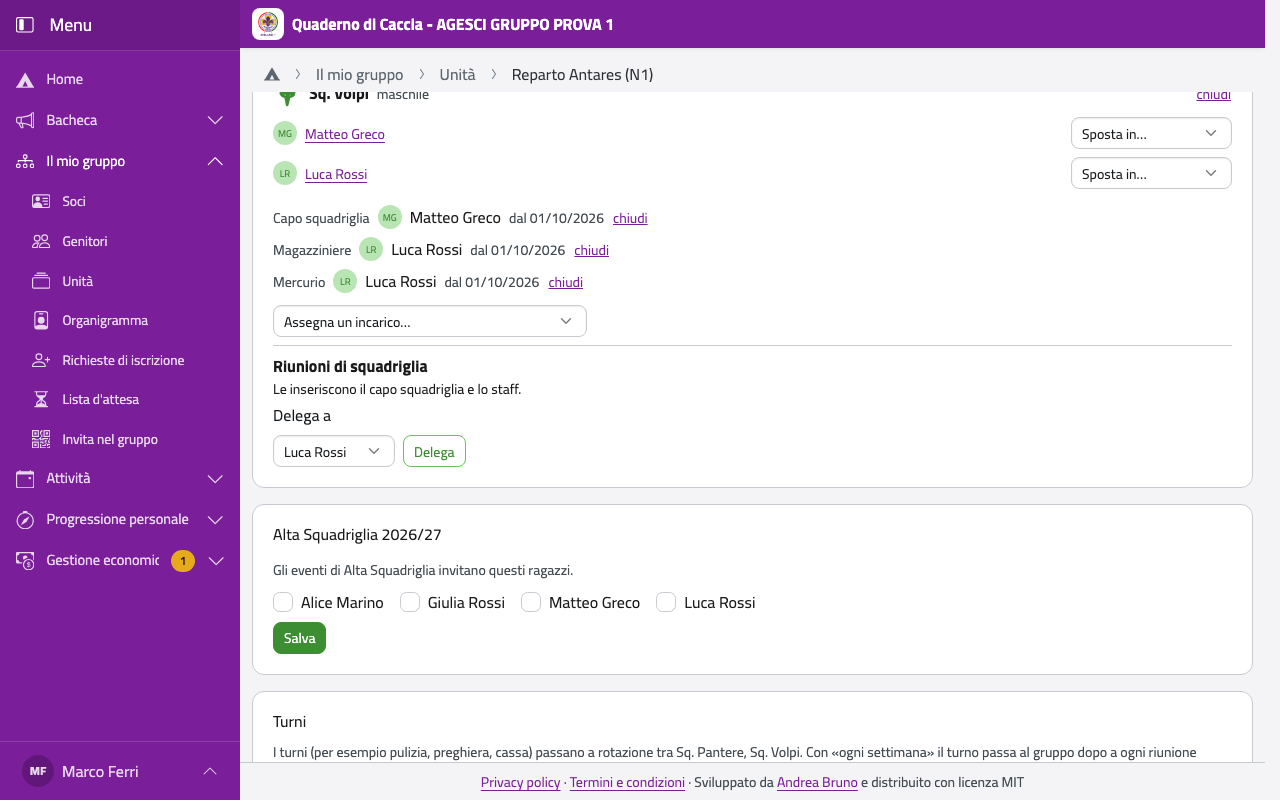
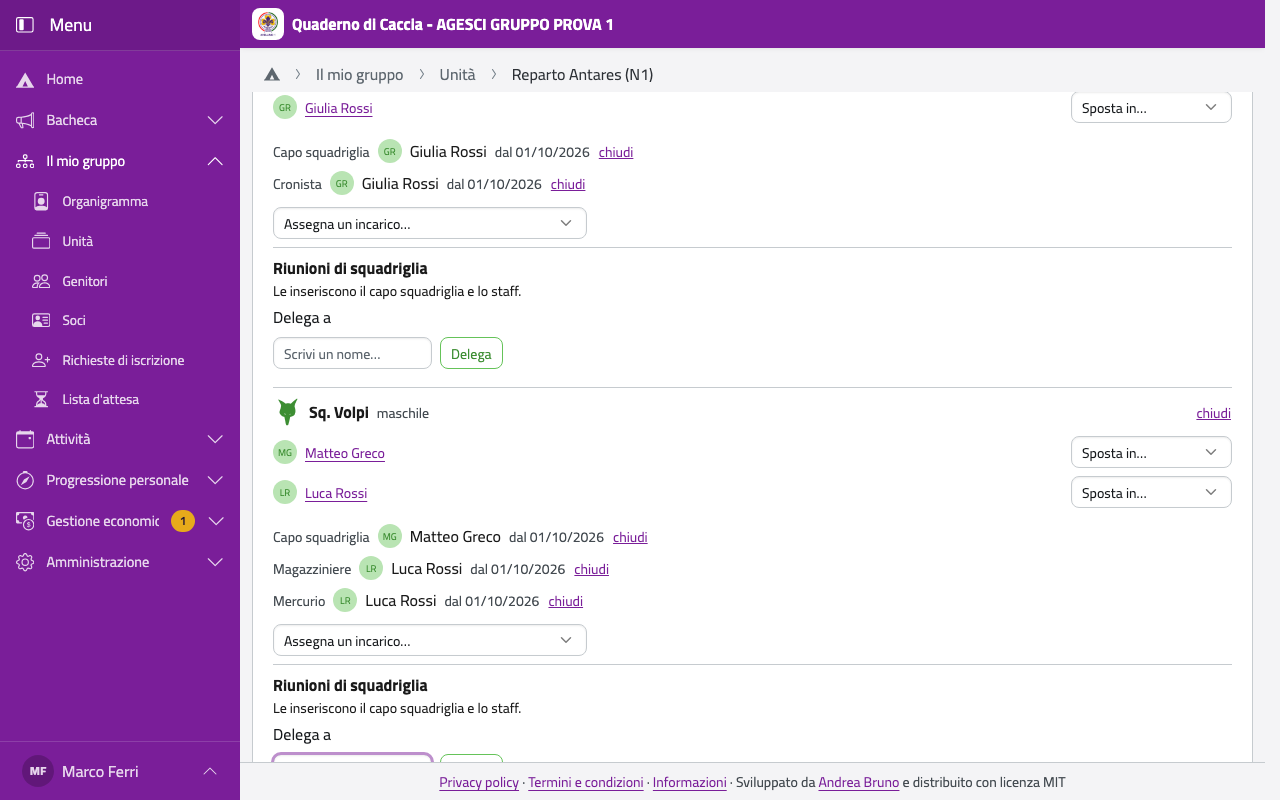
Version 1.25.0
Claude-Session: https://claude.ai/code/session_01FnZgpbkydComDqid7zBVs7

diff --git a/CHANGELOG.md b/CHANGELOG.md
@@ -5,6 +5,28 @@ versione installata e quella nuova prima di chiedere se aggiornare. Il dettaglio
 versione, con il manuale in PDF, è nella pagina
 [Releases](https://github.com/AGESCI-Avellino-1/quaderno-di-caccia/releases).
 
+## 1.25.0 — 7 novembre 2026
+
+### Novità
+
+**Scegliere una persona scrivendo il nome** ([#58](https://github.com/AGESCI-Avellino-1/quaderno-di-caccia/issues/58)): ovunque si sceglie una persona (incarichi, iscrizioni su BuonaCaccia, coniugi nelle quote, richieste privacy, verbali e convocazioni, imprese, deleghe di squadriglia, consenso dei genitori) al posto del menu a tendina c'è un campo: scrivi parte del nome o del cognome, in qualsiasi ordine e senza badare agli accenti, e l'elenco si restringe. Accanto a ogni nome c'è l'unità, «Co.Ca.» per i capi, così due persone con lo stesso nome non si confondono. Si accetta solo una persona dell'elenco, anche da tastiera, con le frecce e Invio.
+
+**Più iscrizioni su BuonaCaccia insieme** ([#59](https://github.com/AGESCI-Avellino-1/quaderno-di-caccia/issues/59)): in **Registra un'iscrizione** scegli uno o più soci, anche di unità diverse tra quelle che gestisci; chi è già iscritto non compare. Giorno, stato, liberatoria e quota valgono per tutti; il link di gestione di ciascuno lo aggiungi poi nella sua scheda. Si registrano tutte o nessuna, e ogni famiglia riceve la sua email.
+
+### Aggiornare
+
+```bash
+scripts/aggiorna.sh v1.25.0
+```
+
+Nessuna migrazione del database.
+
+### Documentazione
+
+L'introduzione del manuale spiega il campo per scegliere una persona; il capitolo sugli eventi su BuonaCaccia le iscrizioni insieme. Rifatte le schermate dell'organigramma e della delega di squadriglia.
+
+Provata con i test e in un browser, sul computer e con la larghezza di un telefono, con dati inventati; non ancora su un telefono vero. Se qualcosa non va, segnalalo con una issue.
+
 ## 1.24.0 — 7 novembre 2026
 
 ### Novità

diff --git a/docs/installazione/installazione.md b/docs/installazione/installazione.md
@@ -5,12 +5,12 @@
 ```bash
 git clone https://github.com/AGESCI-Avellino-1/quaderno-di-caccia.git /srv/qdc
 cd /srv/qdc
-git checkout v1.24.0
+git checkout v1.25.0
 ```
 
 Installa sempre una **versione rilasciata**: le trovi, con il PDF del manuale d'uso, nella
 pagina [Releases](https://github.com/AGESCI-Avellino-1/quaderno-di-caccia/releases) del
-progetto; al posto di `v1.24.0` metti l'ultima. Il ramo `main` è quello di sviluppo e può
+progetto; al posto di `v1.25.0` metti l'ultima. Il ramo `main` è quello di sviluppo e può
 contenere lavori non ancora provati.
 
 Negli esempi l'installazione è in `/srv/qdc`: se scegli un'altra cartella, cambiala anche

diff --git a/TODO.md b/TODO.md
@@ -2,7 +2,7 @@
 
 Situazione delle [issue](https://github.com/AGESCI-Avellino-1/quaderno-di-caccia/issues) e delle
 [segnalazioni di sicurezza](https://github.com/AGESCI-Avellino-1/quaderno-di-caccia/security/advisories)
-su GitHub, aggiornata il 07/11/2026 (ultima versione: v1.24.0). Le cose ancora aperte del periodo di
+su GitHub, aggiornata il 07/11/2026 (ultima versione: v1.25.0). Le cose ancora aperte del periodo di
 sviluppo sono in [TODO_SVILUPPO.md](TODO_SVILUPPO.md).
 
 ## Aperte
